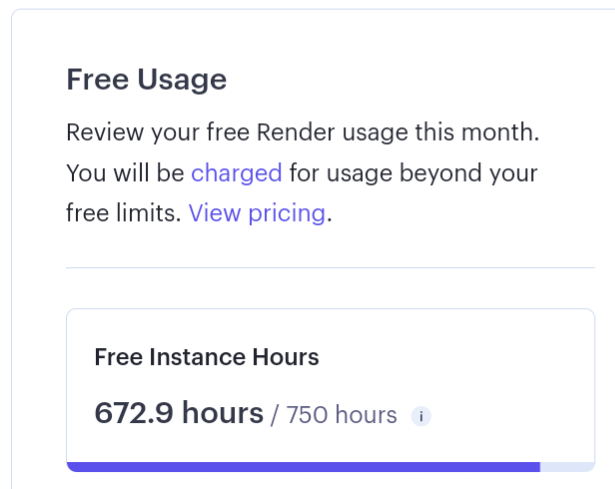
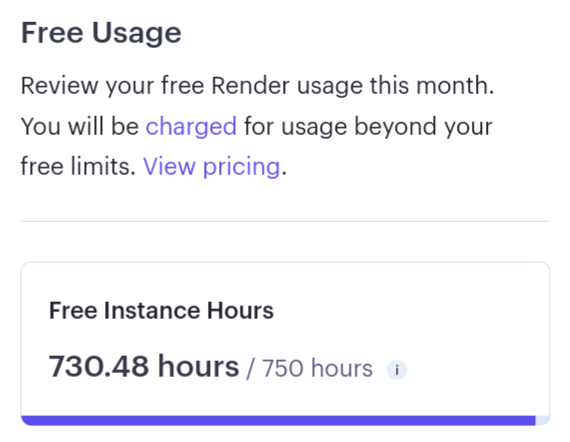
VERY IMPORTANT

diff --git a/templates/index.html b/templates/index.html
@@ -35,7 +35,7 @@
         <h1 class="colored" onclick="toggleStylesheet()">laurel_updates</h1>
 
         <h1 class="red">IMPORTANT!!</h1>
-        <p>My account has almost reached the limit. The website may take time to load, feel slow, or go down on December 27 till new year.</p>
+        <p>My account has almost reached the limit. Expect the website to go down any time, till new year.</p>
         <img src="/static/img/usage_limit.png">
 
         <hr />
